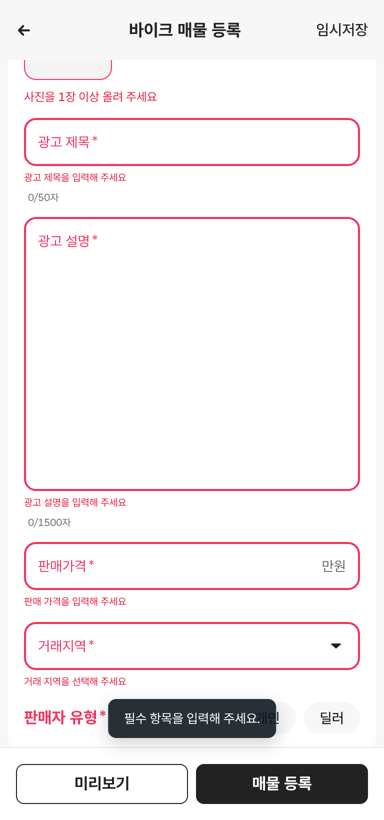
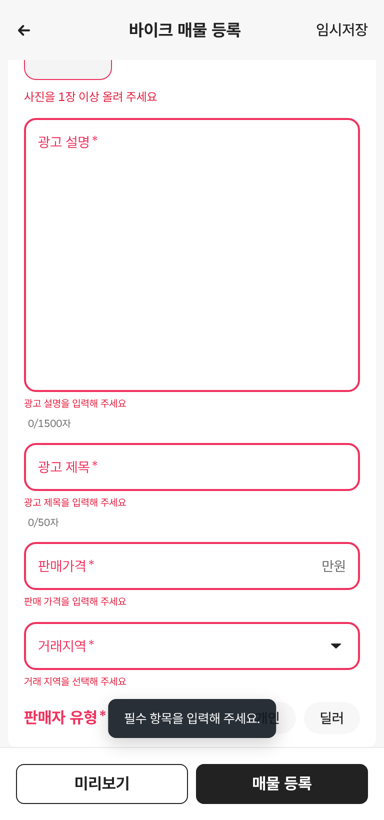
바이크 매물등록: 광고 제목을 광고 설명 아래 원래 자리로 되돌림
- 사용자 지시 「제목 원 위치로, 리듬감이 거기가 좋다」(PR #329 순서 원복)
- 순서: 사진 → 광고 설명 → 광고 제목 → 판매가격 → 거래지역

Claude-Session: https://claude.ai/code/session_01Rmx988oHBPtkyNprxfe4A1

diff --git a/src/prototype/register/BikeRegister.tsx b/src/prototype/register/BikeRegister.tsx
@@ -376,15 +376,15 @@ export default function BikeRegister() {
           </div>
           <p className={`bike-reg-media-hint${errors.photos ? " is-error" : ""}`}>{errors.photos ? "사진을 1장 이상 올려 주세요" : `길게 눌러 사진 순서를 바꿀 수 있어요 · ${photos.length}/${maxPhotos}`}</p>
 
+          <BoxField label="광고 설명" className="is-textarea" filled={Boolean(description)} error={errors.description}>
+            <textarea maxLength={1500} value={description} placeholder="바이크의 상태와 특징을 자세히 알려주세요." onChange={(event) => setDescription(event.currentTarget.value)} />
+          </BoxField>
+          <p className="bike-reg-counter is-description">{description.length}/1500자</p>
           <BoxField label="광고 제목" filled={Boolean(title)} error={errors.title}>
             <input maxLength={titleMax} value={title} placeholder="예: 혼다 PCX 125 무사고" onChange={(event) => setTitle(event.currentTarget.value)} />
             {title ? <button type="button" className="bike-reg-field__clear" aria-label="광고 제목 지우기" onClick={(event) => { event.preventDefault(); setTitle(""); }}><img src={icons.clear} alt="" /></button> : null}
           </BoxField>
           <p className="bike-reg-counter">{title.length}/{titleMax}자</p>
-          <BoxField label="광고 설명" className="is-textarea" filled={Boolean(description)} error={errors.description}>
-            <textarea maxLength={1500} value={description} placeholder="바이크의 상태와 특징을 자세히 알려주세요." onChange={(event) => setDescription(event.currentTarget.value)} />
-          </BoxField>
-          <p className="bike-reg-counter is-description">{description.length}/1500자</p>
           <BoxField label="판매가격" filled={Boolean(price)} error={errors.price}>
             <input inputMode="numeric" value={withComma(price)} placeholder="가격 입력" onChange={(event) => setPrice(digits(event.currentTarget.value).slice(0, 7))} />
             <b className="bike-reg-field__unit">만원</b>

diff --git a/reports/pr-330.md b/reports/pr-330.md
@@ -1,27 +1,29 @@
 # PR #330 바이크 매물 등록 「광고 제목·광고 설명」 문구 교체
 
 ## ① 한 줄 요약
-「매물 제목」과 「매물 설명」을 「광고 제목」과 「광고 설명」으로 바꿨습니다.
+「매물 제목」과 「매물 설명」을 「광고 제목」과 「광고 설명」으로 바꿨습니다. 제목은 설명 아래 원래 자리로 되돌렸습니다.
 
 ## ② 과제 정보
 - 과제 ID: 미지정
 - 브랜치: `feat/bike-register-ad-labels-1009`
-- 커밋: 65c784d. 이 보고서는 그다음 커밋에 들어 있습니다.
+- 커밋: 65c784d(문구), 그다음 커밋(제목 원위치, 이 보고서 포함)
 - PR: https://github.com/bobaekimboae/bobaedream/pull/330
 - 상태: 푸시까지 했습니다. 병합·배포는 요청하실 때 합니다.
-- 이번 병합으로 main에 함께 들어갈 것: PR #329 보고서 상태 줄 수정
+- 이번 병합으로 main에 함께 들어갈 것: PR #329 보고서 상태 줄 수정, PR #329 순서 변경 원복
 
 ## ③ 한 일
 - 칸 이름표: 매물 제목 → 광고 제목, 매물 설명 → 광고 설명
 - 빈칸 오류 문구: 「광고 제목을 입력해 주세요」, 「광고 설명을 입력해 주세요」
 - 제목 지우기 버튼의 aria-label(화면 읽기 프로그램용 이름): 「광고 제목 지우기」
-- 칸 순서와 모양은 그대로입니다.
+- 사용자 지시 「제목 원 위치로 가자, 리듬감이 거기가 좋다」에 따라, PR #329에서 올렸던 제목을 설명 아래로 되돌렸습니다. 순서는 사진 → 광고 설명 → 광고 제목 → 판매가격입니다.
+- 칸 모양은 그대로입니다.
 
 ## ④ 원본과 비교
 | 항목 | 전 | 후 |
 |---|---|---|
-| 첫 칸 이름표 | 매물 제목 | 광고 제목 |
-| 둘째 칸 이름표 | 매물 설명 | 광고 설명 |
+| 제목 칸 이름표 | 매물 제목 | 광고 제목 |
+| 설명 칸 이름표 | 매물 설명 | 광고 설명 |
+| 순서(배포본 9a95825 기준) | 제목 → 설명 | 설명 → 제목(원위치) |
 | 제목 오류 | 제목을 입력해 주세요 | 광고 제목을 입력해 주세요 |
 | 설명 오류 | 매물 설명을 입력해 주세요 | 광고 설명을 입력해 주세요 |
 
